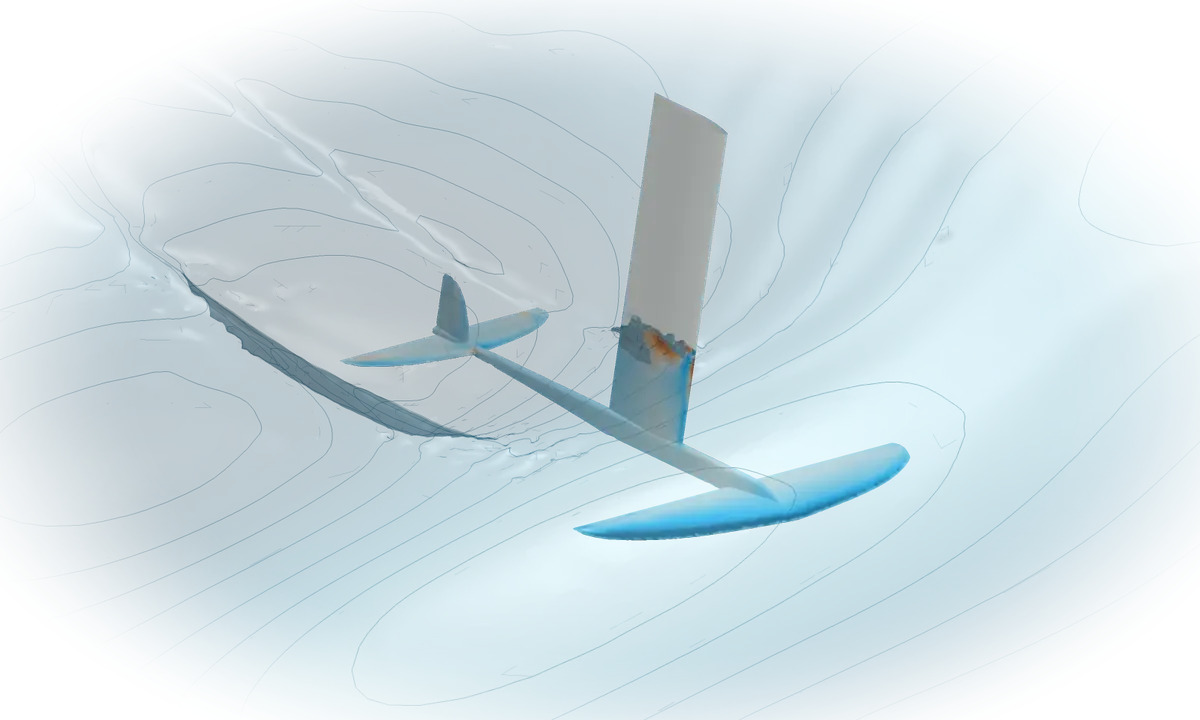
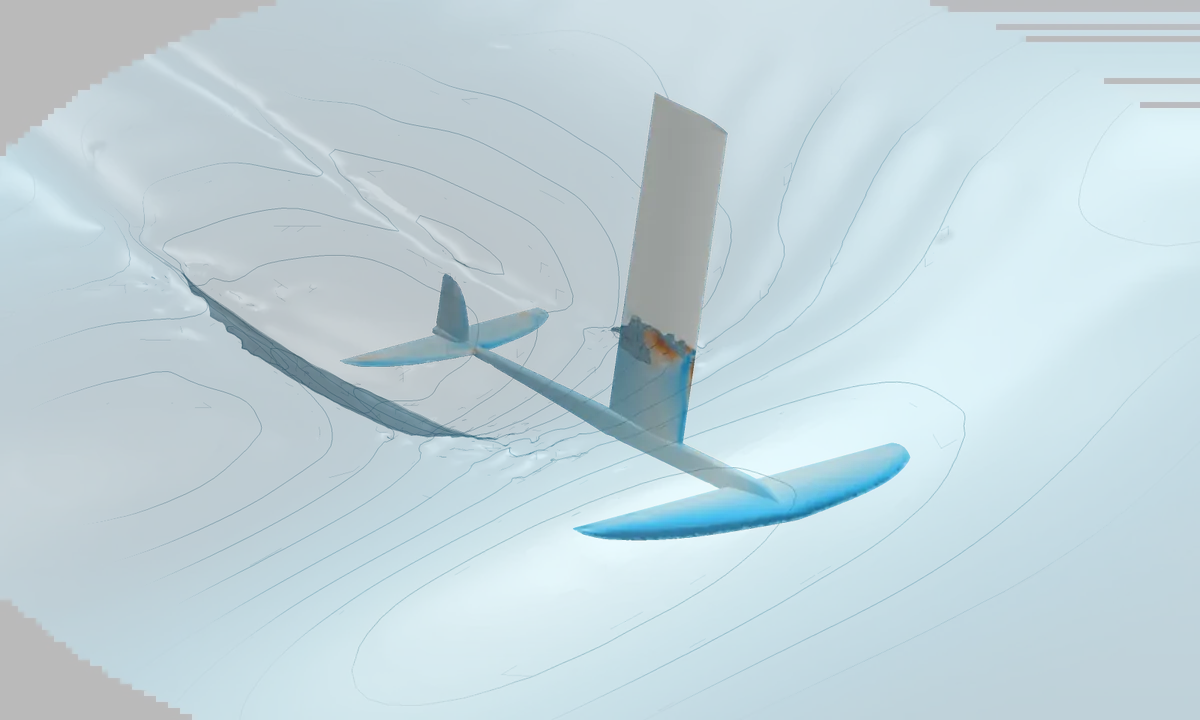
Seegang-Video rechteckig, Startseite bündig, Über mich gekürzt
- Video als Rechteck: Transparenz per SVG-Filter angehoben, Ränder beschnitten
- Startseite beginnt auf gleicher Höhe wie die anderen Seiten
- Über mich: doppelten Einleitungssatz entfernt

Changed region(s): [[0.0, 0.0, 1.0, 1.0]]

diff --git a/foil-video.js b/foil-video.js
@@ -1,21 +1,25 @@
-// Seegang-Video auf der Startseite: je eine Schleife für hellen und dunklen Grund.
+// Seegang-Video auf der Startseite, als Rechteck beschnitten (Ausschnitt siehe style.css).
 // Ohne Skript bzw. bei "Bewegung reduzieren" bleibt das Standbild aus dem HTML stehen.
 (function () {
   const box = document.getElementById("foil-anim");
   if (!box) return;
   const reduce = window.matchMedia("(prefers-reduced-motion: reduce)");
-  // Safari und alle iOS-Browser zeigen WebM ohne Transparenz: dort MP4 (deckend, Ränder per CSS
-  // ausgeblendet). Animiertes WebP nur als Notlösung, etwa im Stromsparmodus (kein Autoplay).
+  // Chrome, Edge, Firefox: transparentes WebM (helle Fassung, passt auf beide Gründe). Die ovale
+  // Ausblendung steckt in dessen Transparenz; der SVG-Filter #wasser in index.html hebt sie auf.
+  // Safari und alle iOS-Browser zeigen WebM ohne Transparenz: dort MP4 (deckend, je Farbschema).
+  // Animiertes WebP nur als Notlösung, etwa im Stromsparmodus (kein Autoplay).
   const webkit = /^Apple/.test(navigator.vendor || "");
+  const alpha = !webkit && !!document.createElement("video").canPlayType('video/webm; codecs="vp9"');
   let visible = true;
   const SPEED = 2 / 3;   // um ein Drittel verlangsamt (animiertes WebP ist entsprechend angepasst)
   const dark = window.matchMedia("(prefers-color-scheme: dark)");
-  const file = (suffix) => "media/foil-seegang-" + (dark.matches ? "dark" : "light") + suffix;
+  const file = (suffix, theme) => "media/foil-seegang-" + (theme || (dark.matches ? "dark" : "light")) + suffix;
+  // Standbild: mit Transparenz immer die helle Fassung, sonst passend zum Farbschema
+  const poster = () => file("-poster.webp", alpha ? "light" : "");
 
-  function image(suffix) {
-    box.classList.remove("opaque");
+  function image(src) {
     const img = document.createElement("img");
-    img.src = file(suffix);
+    img.src = src;
     img.alt = "";
     img.width = 1600;
     img.height = 960;
@@ -25,7 +29,7 @@
   function play(v) {
     if (!visible) { v.pause(); return; }
     const p = v.play();
-    if (p) p.catch((e) => { if (e.name === "NotAllowedError" || e.name === "NotSupportedError") image("-anim.webp"); });
+    if (p) p.catch((e) => { if (e.name === "NotAllowedError" || e.name === "NotSupportedError") image(file("-anim.webp")); });
   }
 
   function video(ext) {
@@ -37,21 +41,20 @@
     v.defaultPlaybackRate = v.playbackRate = SPEED;
     v.width = 1600;
     v.height = 960;
-    v.poster = file("-poster.webp");
-    v.addEventListener("error", () => image("-anim.webp"));
+    v.poster = poster();
+    v.addEventListener("error", () => image(file("-anim.webp")));
     // Standbild erst entfernen, wenn das Video läuft (sonst doppelt, weil transparent)
     v.addEventListener("playing", () => { v.removeAttribute("poster"); }, { once: true });
-    box.classList.toggle("opaque", ext === ".mp4");
-    v.src = file(ext);
+    if (ext === ".webm") v.style.filter = "url(#wasser)";
+    v.src = file(ext, ext === ".webm" ? "light" : "");
     v.playbackRate = SPEED;
     box.replaceChildren(v);
     play(v);
   }
 
   function show() {
-    if (reduce.matches) image("-poster.webp");
-    else if (webkit || !document.createElement("video").canPlayType('video/webm; codecs="vp9"')) video(".mp4");
-    else video(".webm");
+    if (reduce.matches) image(poster());
+    else video(alpha ? ".webm" : ".mp4");
   }
 
   reduce.addEventListener("change", show);

diff --git a/style.css b/style.css
@@ -229,9 +229,9 @@ p { margin: 0 0 1em; max-width: 68ch; color: var(--ink-2); }
   display: grid;
   grid-template-columns: minmax(0, 1.05fr) minmax(0, 1fr);
   gap: 56px; align-items: center;
-  padding: 72px 0 64px;
+  padding: 64px 0;
 }
-@media (max-width: 980px) { .intro { grid-template-columns: 1fr; gap: 40px; padding: 48px 0; } }
+@media (max-width: 980px) { .intro { grid-template-columns: 1fr; gap: 40px; padding: 64px 0 48px; } }
 .intro h1 { margin-bottom: 26px; }
 
 .intro .hero-photo img { aspect-ratio: 3 / 2; max-height: 400px; object-position: 64% 50%; }
@@ -287,14 +287,13 @@ p { margin: 0 0 1em; max-width: 68ch; color: var(--ink-2); }
 .datasheet.cv dd b { color: var(--ink); font-weight: 600; }
 @media (max-width: 560px) { .datasheet.cv dl > div { grid-template-columns: 1fr; } .datasheet.cv dt { border-right: 0; padding-bottom: 0; } }
 
-.foil-anim { aspect-ratio: 5 / 3; }
+/* Rechteckiger Ausschnitt aus dem 5:3-Video: x 12–88 %, y 8,5–85,5 % */
+.foil-anim { position: relative; overflow: hidden; aspect-ratio: 912 / 554.4; }
 .foil-anim picture { display: contents; }
-.foil-anim.opaque { -webkit-mask-image: radial-gradient(ellipse closest-side, #000 72%, transparent 100%); mask-image: radial-gradient(ellipse closest-side, #000 72%, transparent 100%); }
-/* Die dunkle Fassung hat einen eigenen, fast identischen Grund: Ränder weich ausblenden */
-@media (prefers-color-scheme: dark) {
-  .foil-anim { -webkit-mask-image: radial-gradient(ellipse closest-side, #000 72%, transparent 100%); mask-image: radial-gradient(ellipse closest-side, #000 72%, transparent 100%); }
+.intro .hero-cfd .foil-anim img, .intro .hero-cfd .foil-anim video {
+  position: absolute; display: block; left: -15.789%; top: -11.039%;
+  width: 131.579%; max-width: none; height: auto; max-height: none; aspect-ratio: 5 / 3; object-fit: contain;
 }
-.intro .hero-cfd .foil-anim img, .foil-anim video { display: block; width: 100%; height: 100%; max-height: none; aspect-ratio: auto; object-fit: contain; }
 .plate.hero-cfd figcaption { display: flex; flex-wrap: wrap; justify-content: space-between; align-items: center; gap: 6px 18px; font-size: 13px; color: var(--muted); }
 .hero-cfd figcaption b { color: var(--ink); font-weight: 600; }
 .hero-cfd .legend { display: flex; align-items: center; gap: 12px; }

diff --git a/index.html b/index.html
@@ -14,7 +14,7 @@
   <link rel="icon" type="image/png" href="images/coastl_logo_dark.png">
   <link rel="canonical" href="https://coastl.de/">
   <script>(function(){var l;try{l=localStorage.getItem("lang")}catch(e){}if(l!=="de"&&l!=="en"){l=/^de\b/i.test(navigator.language||"de")?"de":"en"}document.documentElement.setAttribute("data-lang",l);document.documentElement.lang=l})()</script>
-  <link rel="stylesheet" href="style.css?v=3">
+  <link rel="stylesheet" href="style.css?v=5">
 </head>
 <body>
 <a class="skip" href="#main"><span data-l="de">Zum Inhalt</span><span data-l="en">Skip to content</span></a>
@@ -56,6 +56,12 @@
       </div>
 
       <figure class="plate hero-cfd">
+        <!-- hebt nur die Transparenz des Videos an: überall mindestens so deckend wie das Wasser in der Bildmitte -->
+        <svg width="0" height="0" style="position:absolute" aria-hidden="true" focusable="false">
+          <filter id="wasser" x="0" y="0" width="1" height="1" color-interpolation-filters="sRGB">
+            <feComponentTransfer><feFuncA type="table" tableValues="0.271 0.271 0.271 0.271 0.271 0.271 0.271 0.271 0.271 0.271 0.271 0.271 0.271 0.271 0.271 0.271 0.271 0.271 0.271 0.271 0.271 0.271 0.271 0.271 0.271 0.271 0.271 0.271 0.280 0.290 0.300 0.310 0.320 0.330 0.340 0.350 0.360 0.370 0.380 0.390 0.400 0.410 0.420 0.430 0.440 0.450 0.460 0.470 0.480 0.490 0.500 0.510 0.520 0.530 0.540 0.550 0.560 0.570 0.580 0.590 0.600 0.610 0.620 0.630 0.640 0.650 0.660 0.670 0.680 0.690 0.700 0.710 0.720 0.730 0.740 0.750 0.760 0.770 0.780 0.790 0.800 0.810 0.820 0.830 0.840 0.850 0.860 0.870 0.880 0.890 0.900 0.910 0.920 0.930 0.940 0.950 0.960 0.970 0.980 0.990 1.000"/></feComponentTransfer>
+          </filter>
+        </svg>
         <div id="foil-anim" class="foil-anim" role="img" aria-label="Animierte Strömungssimulation eines Hydrofoils im unregelmäßigen Seegang mit schwankendem Druckfeld">
           <picture>
             <source srcset="media/foil-seegang-dark-poster.webp" media="(prefers-color-scheme: dark)">
@@ -252,6 +258,6 @@
 </footer>
 
 <script src="script.js?v=2"></script>
-<script src="foil-video.js?v=3"></script>
+<script src="foil-video.js?v=4"></script>
 </body>
 </html>

diff --git a/ueber-mich.html b/ueber-mich.html
@@ -10,7 +10,7 @@
   <link rel="icon" type="image/png" href="images/coastl_logo_dark.png">
   <link rel="canonical" href="https://coastl.de/ueber-mich.html">
   <script>(function(){var l;try{l=localStorage.getItem("lang")}catch(e){}if(l!=="de"&&l!=="en"){l=/^de\b/i.test(navigator.language||"de")?"de":"en"}document.documentElement.setAttribute("data-lang",l);document.documentElement.lang=l})()</script>
-  <link rel="stylesheet" href="style.css?v=3">
+  <link rel="stylesheet" href="style.css?v=5">
 </head>
 <body>
 <a class="skip" href="#main"><span data-l="de">Zum Inhalt</span><span data-l="en">Skip to content</span></a>
@@ -38,8 +38,8 @@
     <header class="page-head">
       <p class="kicker"><span data-l="de">Über mich</span><span data-l="en">About</span></p>
       <h1>Winny Hohensee, B.Eng.</h1>
-      <p class="lead" data-l="de">Schiffbauingenieur aus Kiel. Ich lege strömungsführende Bauteile aus und optimiere sie, von Rumpf- und Anhangsformen über Propeller bis zu leichten Faserverbundstrukturen.</p>
-      <p class="lead" data-l="en">Naval architect based in Kiel. I design and optimize flow-critical components, from hull and appendage shapes to propellers and lightweight composite structures.</p>
+      <p class="lead" data-l="de">Schiffbauingenieur aus Kiel.</p>
+      <p class="lead" data-l="en">Naval architect based in Kiel.</p>
     </header>
 
     <div class="about">

diff --git a/datenschutz.html b/datenschutz.html
@@ -9,7 +9,7 @@
   <meta name="theme-color" content="#111416" media="(prefers-color-scheme: dark)">
   <link rel="icon" type="image/png" href="images/coastl_logo_dark.png">
   <script>(function(){var l;try{l=localStorage.getItem("lang")}catch(e){}if(l!=="de"&&l!=="en"){l=/^de\b/i.test(navigator.language||"de")?"de":"en"}document.documentElement.setAttribute("data-lang",l);document.documentElement.lang=l})()</script>
-  <link rel="stylesheet" href="style.css?v=3">
+  <link rel="stylesheet" href="style.css?v=5">
 </head>
 <body>
 <a class="skip" href="#main"><span data-l="de">Zum Inhalt</span><span data-l="en">Skip to content</span></a>

diff --git a/impressum.html b/impressum.html
@@ -9,7 +9,7 @@
   <meta name="theme-color" content="#111416" media="(prefers-color-scheme: dark)">
   <link rel="icon" type="image/png" href="images/coastl_logo_dark.png">
   <script>(function(){var l;try{l=localStorage.getItem("lang")}catch(e){}if(l!=="de"&&l!=="en"){l=/^de\b/i.test(navigator.language||"de")?"de":"en"}document.documentElement.setAttribute("data-lang",l);document.documentElement.lang=l})()</script>
-  <link rel="stylesheet" href="style.css?v=3">
+  <link rel="stylesheet" href="style.css?v=5">
 </head>
 <body>
 <a class="skip" href="#main"><span data-l="de">Zum Inhalt</span><span data-l="en">Skip to content</span></a>

diff --git a/referenzen.html b/referenzen.html
@@ -12,7 +12,7 @@
   <link rel="icon" type="image/png" href="images/coastl_logo_dark.png">
   <link rel="canonical" href="https://coastl.de/referenzen.html">
   <script>(function(){var l;try{l=localStorage.getItem("lang")}catch(e){}if(l!=="de"&&l!=="en"){l=/^de\b/i.test(navigator.language||"de")?"de":"en"}document.documentElement.setAttribute("data-lang",l);document.documentElement.lang=l})()</script>
-  <link rel="stylesheet" href="style.css?v=3">
+  <link rel="stylesheet" href="style.css?v=5">
 </head>
 <body>
 <a class="skip" href="#main"><span data-l="de">Zum Inhalt</span><span data-l="en">Skip to content</span></a>

diff --git a/kontakt.html b/kontakt.html
@@ -10,7 +10,7 @@
   <link rel="icon" type="image/png" href="images/coastl_logo_dark.png">
   <link rel="canonical" href="https://coastl.de/kontakt.html">
   <script>(function(){var l;try{l=localStorage.getItem("lang")}catch(e){}if(l!=="de"&&l!=="en"){l=/^de\b/i.test(navigator.language||"de")?"de":"en"}document.documentElement.setAttribute("data-lang",l);document.documentElement.lang=l})()</script>
-  <link rel="stylesheet" href="style.css?v=3">
+  <link rel="stylesheet" href="style.css?v=5">
 </head>
 <body>
 <a class="skip" href="#main"><span data-l="de">Zum Inhalt</span><span data-l="en">Skip to content</span></a>

diff --git a/404.html b/404.html
@@ -7,7 +7,7 @@
   <meta name="robots" content="noindex">
   <link rel="icon" type="image/png" href="/images/coastl_logo_dark.png">
   <script>(function(){var l;try{l=localStorage.getItem("lang")}catch(e){}if(l!=="de"&&l!=="en"){l=/^de\b/i.test(navigator.language||"de")?"de":"en"}document.documentElement.setAttribute("data-lang",l);document.documentElement.lang=l})()</script>
-  <link rel="stylesheet" href="/style.css?v=3">
+  <link rel="stylesheet" href="/style.css?v=5">
 </head>
 <body>
 <header class="site-header">
